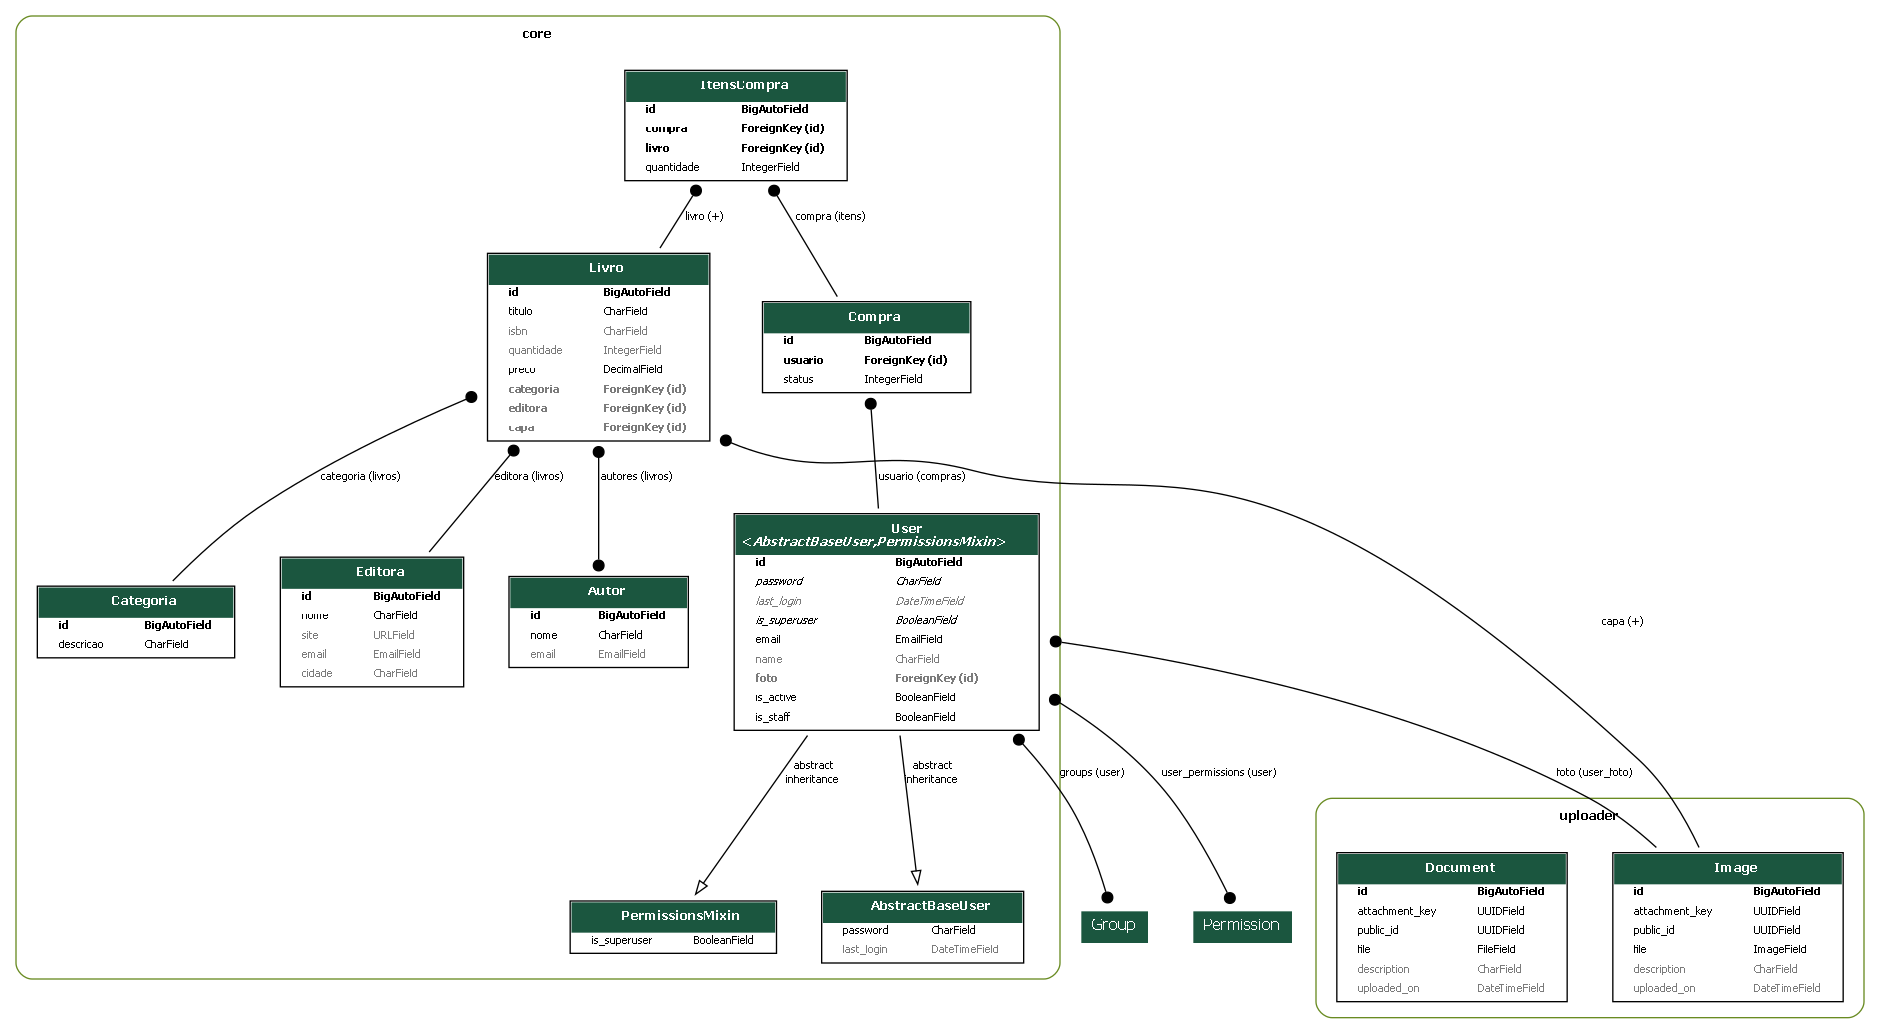
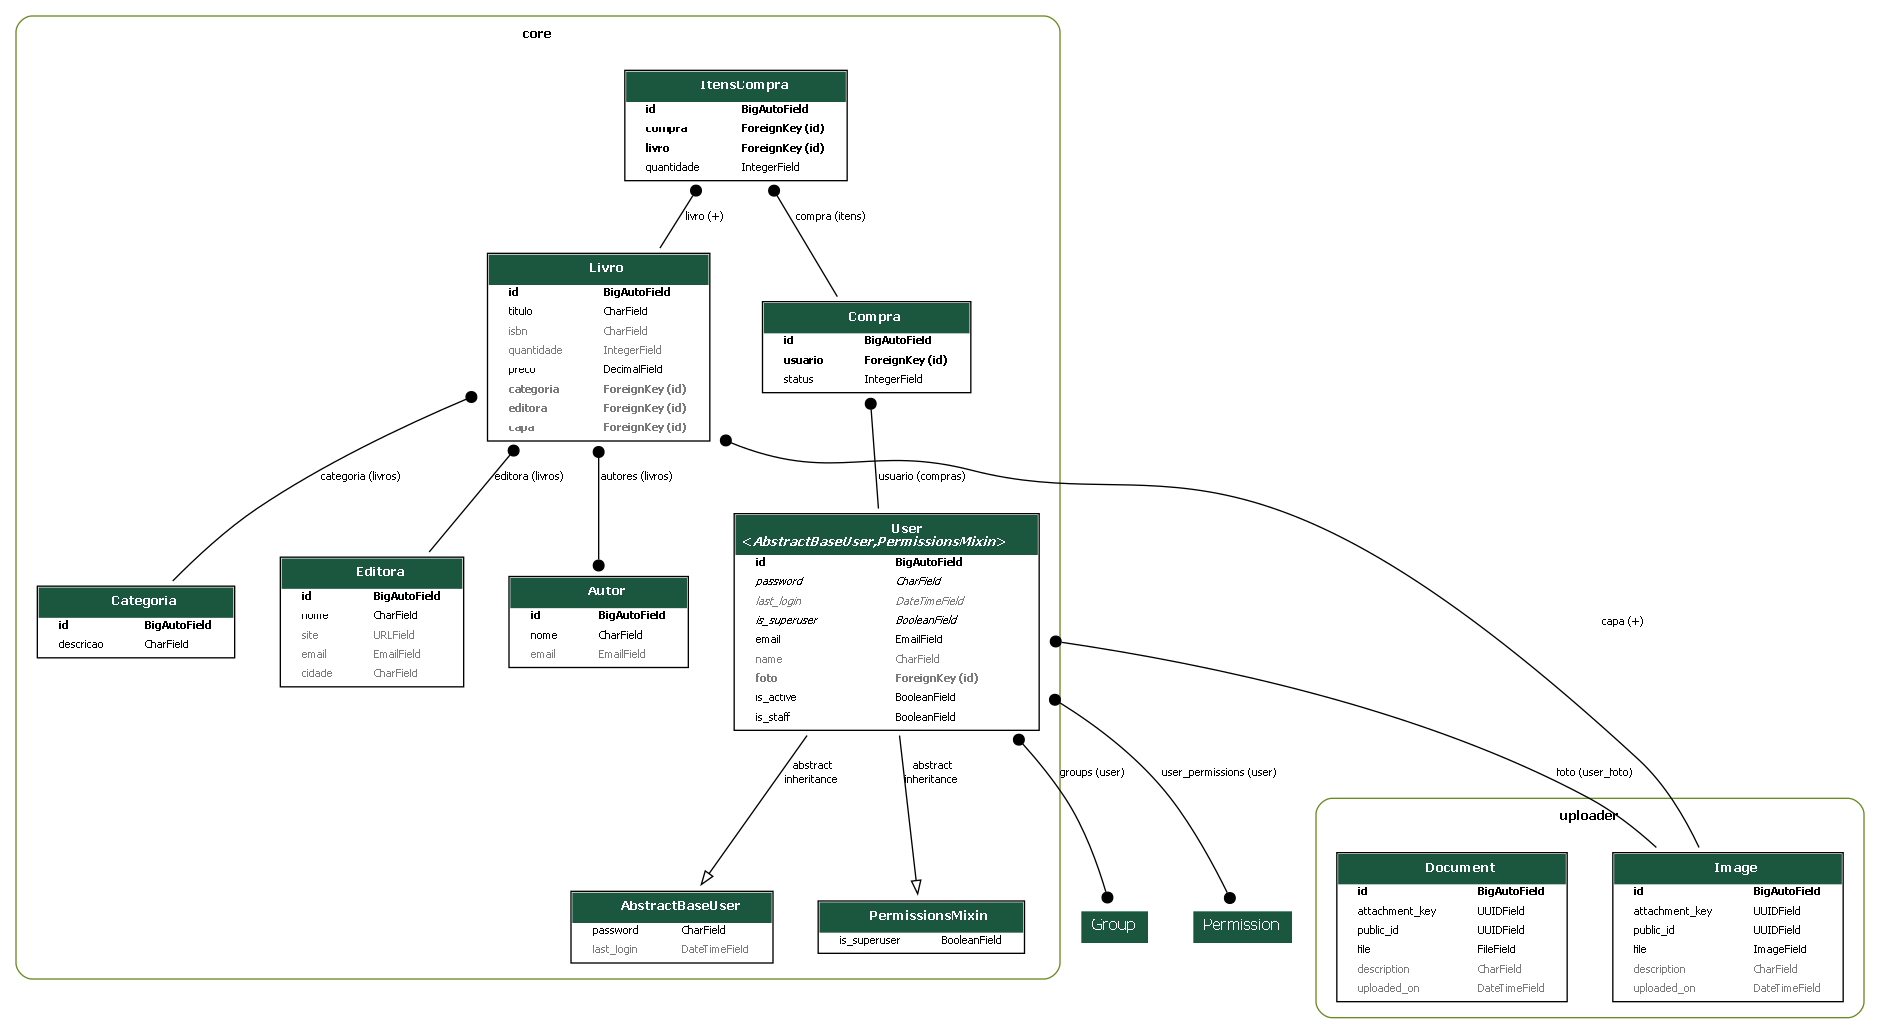
feat: mostrando o total do item na listagem de compras

Changed region(s): [[0.2777, 0.8356, 0.5553, 0.9284], [0.4011, 0.7427, 0.4319, 0.7737]]

diff --git a/core/serializers/compra.py b/core/serializers/compra.py
@@ -1,4 +1,4 @@
-from rest_framework.serializers import CharField,  DecimalField, ModelSerializer
+from rest_framework.serializers import CharField, DecimalField, ModelSerializer, SerializerMethodField
 from core.models import Compra, ItensCompra
 
 
@@ -7,10 +7,15 @@ class ItensCompraSerializer(ModelSerializer):
     editora = CharField(source='livro.editora.nome', read_only=True)
     preco = DecimalField(source='livro.preco', read_only=True, max_digits=10, decimal_places=2)
     capa = CharField(source='livro.capa.url', read_only=True)
+    total = SerializerMethodField()
+
+    def get_total(self, item):
+        return item.livro.preco * item.quantidade
 
     class Meta:
         model = ItensCompra
-        fields = ('id', 'titulo', 'editora', 'quantidade', 'preco', 'capa')
+        fields = ('id', 'titulo', 'editora', 'quantidade', 'preco', 'capa', 'total')
+
 
 class CompraSerializer(ModelSerializer):
     usuario = CharField(source='usuario.email', read_only=True)
